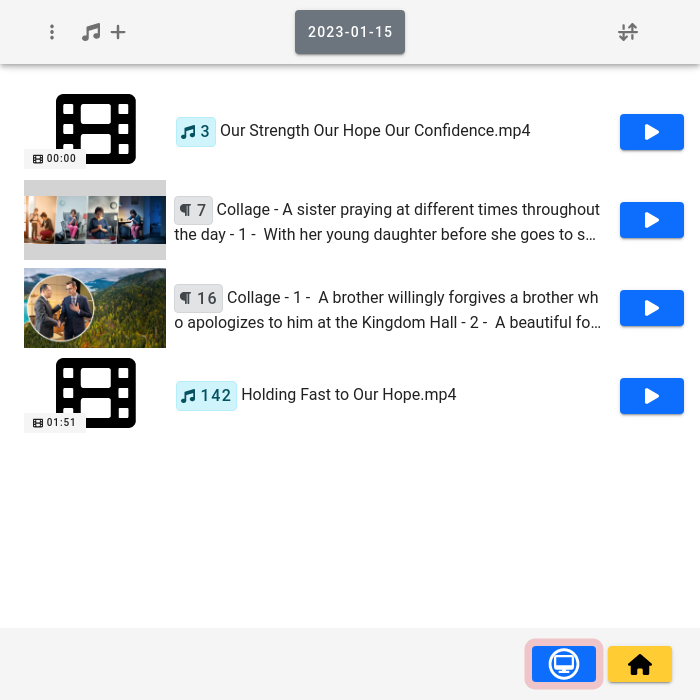
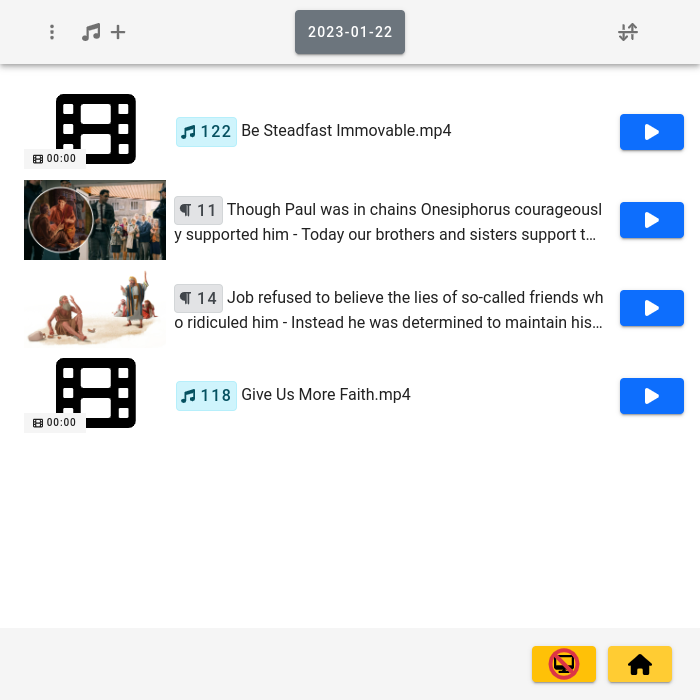
chore: update screenshots (#1271)
* chore: update screenshots

* chore: remove select meeting img

* chore: remove select meeting img

diff --git a/_includes/screenshots/present-media.html b/_includes/screenshots/present-media.html
@@ -1,8 +1,6 @@
 <table class="showcase" markdown="0">
   {% include image.html src="present/launch-present-mode.png" alt="imgButton"
-  lang=include.lang page="present-media" %} {% include image.html
-  src="present/meeting-picker.png" alt="imgSelectMeeting" lang=include.lang
-  page="present-media" %} {% include image.html src="present/default-bg.png"
+  lang=include.lang page="present-media" %} {% include image.html src="present/default-bg.png"
   alt="imgBG" lang=include.lang page="present-media" %} {% include image.html
   src="present/media-list.png" alt="imgMediaList" lang=include.lang
   page="present-media" %} {% include
